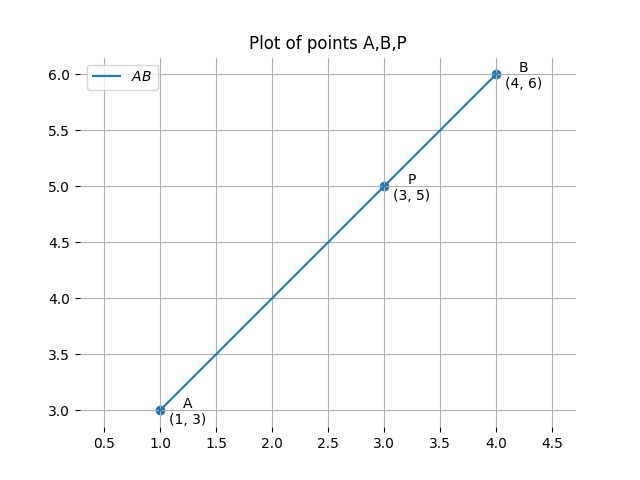
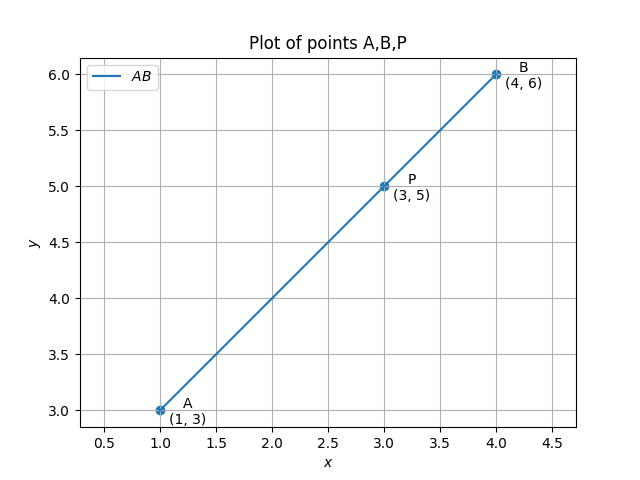
Fourth Commit

Changed region(s): [[0.0312, 0.5, 0.0625, 0.5312]]

diff --git a/Q1/codes/section.py b/Q1/codes/section.py
@@ -48,14 +48,14 @@ for i, txt in enumerate(vert_labels):
                  ha='center') # horizontal alignment can be left, right or center
 # use set_position
 ax = plt.gca()
-ax.spines['top'].set_color('none')
-ax.spines['left'].set_position('zero')
-ax.spines['right'].set_color('none')
-ax.spines['bottom'].set_position('zero')
-ax.spines['left'].set_visible(False)
-ax.spines['right'].set_visible(False)
-ax.spines['top'].set_visible(False)
-ax.spines['bottom'].set_visible(False)
+#ax.spines['top'].set_color('none')
+#ax.spines['left'].set_position('zero')
+#ax.spines['right'].set_color('none')
+#ax.spines['bottom'].set_position('zero')
+#ax.spines['left'].set_visible(False)
+#ax.spines['right'].set_visible(False)
+#ax.spines['top'].set_visible(False)
+#ax.spines['bottom'].set_visible(False)
 plt.xlabel('$x$')
 plt.ylabel('$y$')
 plt.legend(loc='best')

diff --git a/Q1/q1.tex b/Q1/q1.tex
@@ -65,7 +65,7 @@ If $P$ divides $AB$ in the ratio $k:1$,
 \begin{align} 
 P=\frac{kB+A}{k+1} 
 \end{align}\\
-From equation we have
+Putting the values of A,B we get
 \begin{align}
 	P = \frac{\myvec{
 4k+1 \\
